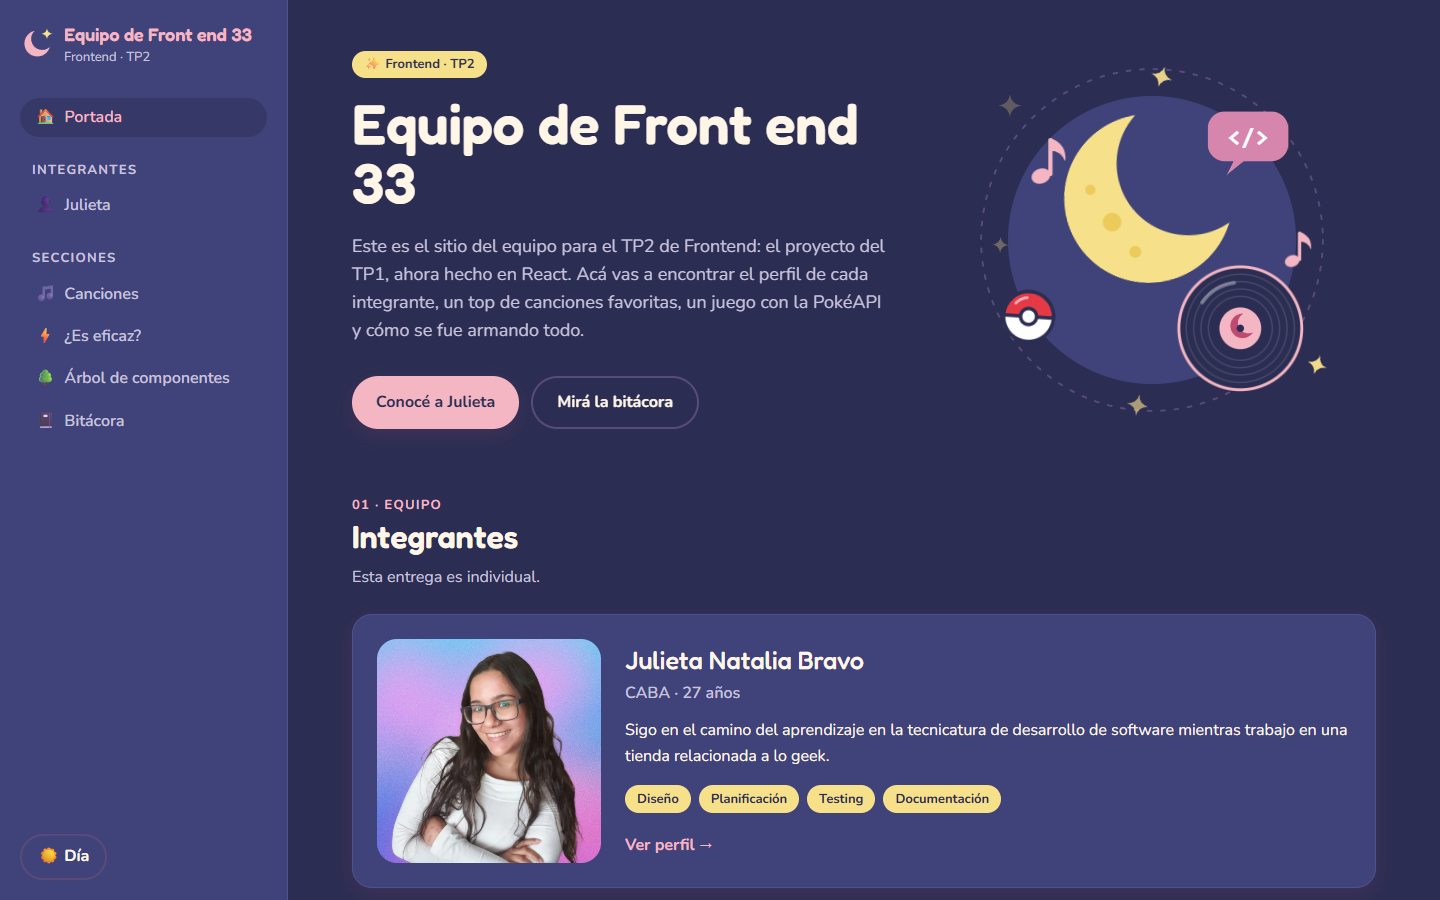
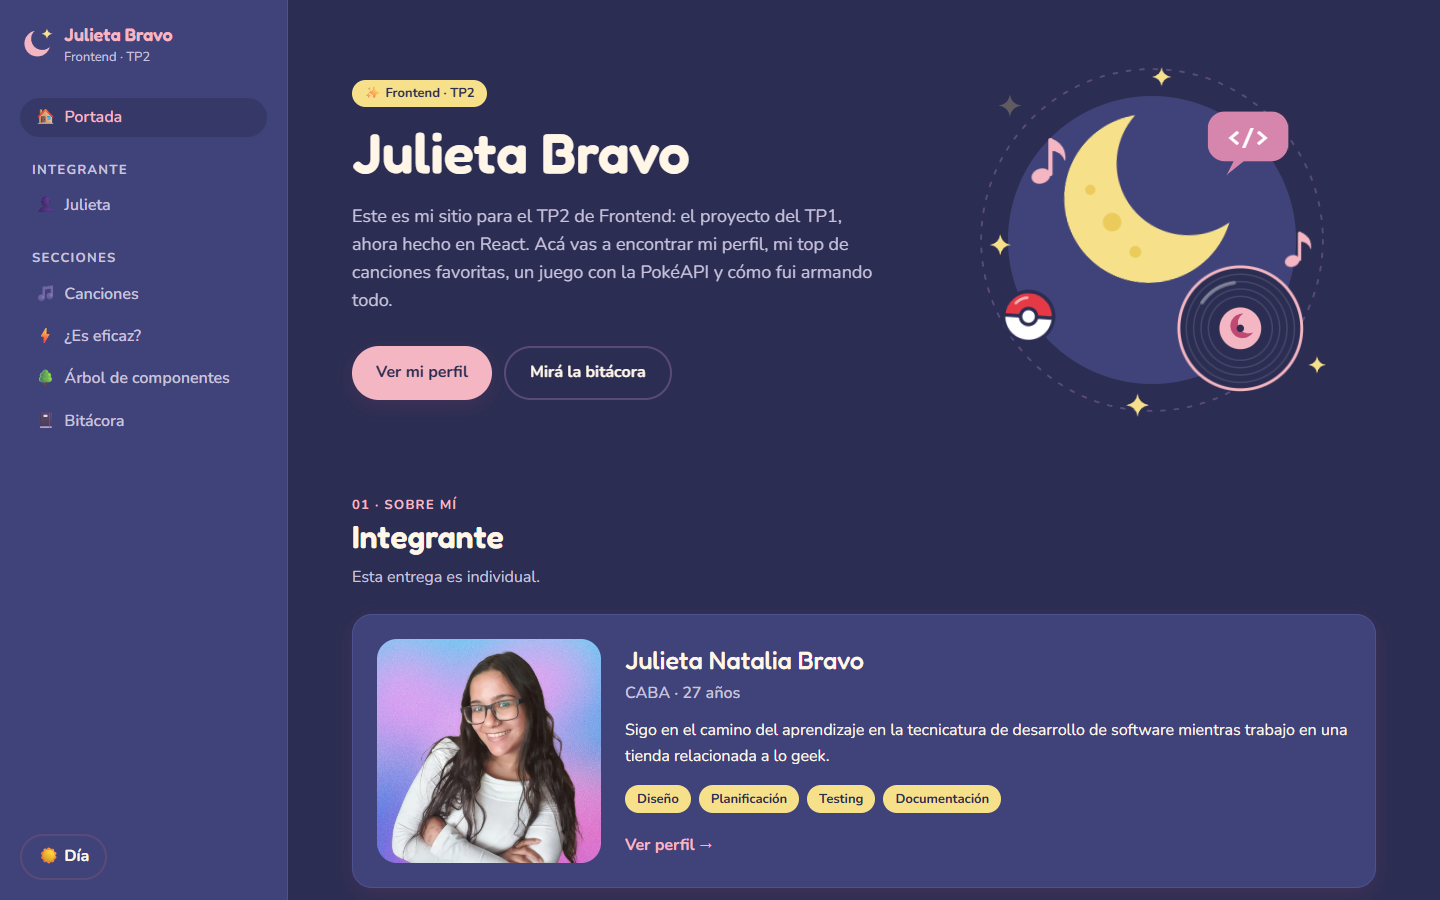
Adaptar textos del sitio, README y bitácora

diff --git a/src/pages/Home.jsx b/src/pages/Home.jsx
@@ -3,9 +3,9 @@ import MemberCard from '../components/home/MemberCard'
 import HeroIllustration from '../components/illustrations/HeroIllustration'
 import SectionCard from '../components/home/SectionCard'
 import Badge from '../components/ui/Badge'
-import equipo from '../data/equipo.json'
 import integrantes from '../data/integrantes.json'
 import secciones from '../data/secciones.json'
+import sitio from '../data/sitio.json'
 
 function SectionTitle({ eyebrow, title, children }) {
   return (
@@ -25,24 +25,24 @@ function Home() {
     <div className="grid gap-16">
       <section className="grid items-center gap-10 md:grid-cols-[1.2fr_1fr]">
         <div>
-          <Badge className="animate-fade-up">✨ {equipo.bajada}</Badge>
+          <Badge className="animate-fade-up">✨ {sitio.bajada}</Badge>
           <h1
             className="mt-4 animate-fade-up text-[clamp(2.4rem,5vw,3.5rem)] leading-[1.05]"
             style={{ animationDelay: '.1s' }}
           >
-            {equipo.nombre}
+            {sitio.nombre}
           </h1>
           <p className="mt-5 max-w-xl animate-fade-up text-lg text-fg-muted" style={{ animationDelay: '.2s' }}>
-            {equipo.descripcion}
+            {sitio.descripcion}
           </p>
           <div className="mt-8 flex animate-fade-up flex-wrap gap-3" style={{ animationDelay: '.3s' }}>
             {soloIntegrante ? (
               <Link to={`/integrantes/${soloIntegrante.id}`} className="btn btn-primary">
-                Conocé a {soloIntegrante.nombreCorto}
+                Ver mi perfil
               </Link>
             ) : (
               <a href="#integrantes" className="btn btn-primary">
-                Conocé al equipo
+                Conocé a los integrantes
               </a>
             )}
             <Link to="/bitacora" className="btn btn-secondary">
@@ -55,8 +55,8 @@ function Home() {
       </section>
 
       <section id="integrantes" className="scroll-mt-20">
-        <SectionTitle eyebrow="01 · Equipo" title="Integrantes">
-          {soloIntegrante ? equipo.nota : 'Tocá un nombre para ver su perfil.'}
+        <SectionTitle eyebrow="01 · Sobre mí" title={soloIntegrante ? 'Integrante' : 'Integrantes'}>
+          {soloIntegrante ? sitio.nota : 'Tocá un nombre para ver su perfil.'}
         </SectionTitle>
         <div className={soloIntegrante ? 'grid' : 'grid gap-6 sm:grid-cols-2 lg:grid-cols-3'}>
           {integrantes.map((integrante) => (

diff --git a/src/components/layout/Brand.jsx b/src/components/layout/Brand.jsx
@@ -1,5 +1,5 @@
 import { Link } from 'react-router'
-import equipo from '../../data/equipo.json'
+import sitio from '../../data/sitio.json'
 import Logo from '../illustrations/Logo'
 
 function Brand({ onClick }) {
@@ -7,8 +7,8 @@ function Brand({ onClick }) {
     <Link to="/" onClick={onClick} className="flex items-center gap-2 text-primary">
       <Logo className="size-9 shrink-0" />
       <span className="grid leading-tight">
-        <span className="font-display text-lg font-semibold">{equipo.nombre}</span>
-        <span className="text-small text-fg-muted">{equipo.bajada}</span>
+        <span className="font-display text-lg font-semibold">{sitio.nombre}</span>
+        <span className="text-small text-fg-muted">{sitio.bajada}</span>
       </span>
     </Link>
   )

diff --git a/src/components/illustrations/HeroIllustration.jsx b/src/components/illustrations/HeroIllustration.jsx
@@ -1,6 +1,6 @@
 import { Crescent, MusicNote, Pokeball, Sparkle, Vinyl } from './Shapes'
 
-// Ilustración de la portada: la luna del equipo rodeada de lo que hay en el sitio
+// Ilustración de la portada: la luna del sitio rodeada de lo que hay en el sitio
 // (canciones, Pokémon y código). Hecha en SVG con la paleta del tema.
 function HeroIllustration() {
   return (

diff --git a/src/components/layout/Sidebar.jsx b/src/components/layout/Sidebar.jsx
@@ -44,7 +44,7 @@ function Sidebar({ id, open, onClose }) {
 
         <div>
           <p className="mb-2 px-3 text-small font-bold uppercase tracking-widest text-fg-muted">
-            Integrantes
+            {integrantes.length === 1 ? 'Integrante' : 'Integrantes'}
           </p>
           <ul className="grid gap-1">
             {integrantes.map((integrante) => (

diff --git a/src/components/illustrations/Logo.jsx b/src/components/illustrations/Logo.jsx
@@ -1,4 +1,4 @@
-// Logo del equipo: luna creciente con un destello (el mismo dibujo que el favicon)
+// Logo del sitio: luna creciente con un destello (el mismo dibujo que el favicon)
 function Logo({ className = '' }) {
   return (
     <svg viewBox="0 0 32 32" className={className} aria-hidden="true">

diff --git a/README.md b/README.md
@@ -1,6 +1,6 @@
-# Equipo de Front end 33 · TP2
+# Julieta Bravo · TP2 de Frontend
 
-Sitio del equipo para el Trabajo Práctico N.º 2 de Frontend: el proyecto del TP1, ahora hecho en React. Reúne el perfil de cada integrante, un top de canciones favoritas con búsqueda y filtro, un juego con la PokéAPI, el árbol de componentes de la aplicación y la bitácora del proceso.
+Mi sitio para el Trabajo Práctico N.º 2 de Frontend: el proyecto del TP1, ahora hecho en React. Reúne mi perfil, un top de canciones favoritas con búsqueda y filtro, un juego con la PokéAPI, el árbol de componentes de la aplicación y la bitácora del proceso.
 
 🔗 **Sitio publicado:** [frontend-tp2.vercel.app](https://frontend-tp2.vercel.app/)
 📦 **Repositorio:** [github.com/julietanatbravo/frontend-tp2](https://github.com/julietanatbravo/frontend-tp2)
@@ -29,7 +29,7 @@ Todas se recorren desde la sidebar, que marca la sección activa y en celular se
 
 | Sección | Ruta | Qué tiene |
 | --- | --- | --- |
-| Portada | [`/`](https://frontend-tp2.vercel.app/) | Presentación del equipo, tarjeta de cada integrante y accesos a todas las secciones |
+| Portada | [`/`](https://frontend-tp2.vercel.app/) | Presentación, mi tarjeta de integrante y accesos a todas las secciones |
 | Perfil | [`/integrantes/julieta`](https://frontend-tp2.vercel.app/integrantes/julieta) | Datos, habilidades y favoritos, con una pokébola que muestra un Pokémon favorito al azar (PokéAPI) |
 | Canciones | [`/canciones`](https://frontend-tp2.vercel.app/canciones) | 20 canciones desde un JSON local, con búsqueda por texto, filtro por artista, vista detallada y fragmentos de 30 segundos |
 | ¿Es eficaz? | [`/pokemon`](https://frontend-tp2.vercel.app/pokemon) | Juego con la PokéAPI: dos Pokémon al azar y hay que adivinar el multiplicador de daño. Tiene niveles de dificultad, mensajes de carga y de error, y reintento |
@@ -90,7 +90,7 @@ frontend-tp2/
 │   ├── components/
 │   │   ├── home/          # Portada (MemberCard, SectionCard)
 │   │   ├── illustrations/ # Ilustraciones SVG propias: portada, logo y encabezados de sección
-│   │   ├── layout/        # Layout, Sidebar y Brand (identidad del equipo)
+│   │   ├── layout/        # Layout, Sidebar y Brand (identidad del sitio)
 │   │   ├── log/           # Bitácora (LogEntry)
 │   │   ├── pokemon/       # Juego "¿Es eficaz?" (PokéAPI)
 │   │   ├── profile/       # Perfil de integrante (FavoritePokemon, FavoriteList)
@@ -98,7 +98,7 @@ frontend-tp2/
 │   │   ├── tree/          # Árbol de componentes (TreeNode, TreeLegend)
 │   │   ├── ui/            # Componentes base: Button, Card, Input, Badge, Modal, ConfirmDialog, Disclosure, SegmentedControl
 │   │   └── ThemeToggle.jsx
-│   ├── data/              # Datos locales en JSON (equipo, integrantes, canciones, bitácora…)
+│   ├── data/              # Datos locales en JSON (sitio, integrantes, canciones, bitácora…)
 │   ├── hooks/             # useTheme, usePokemonRound, useAudioPreview
 │   ├── pages/             # Una página por ruta
 │   ├── services/          # Consultas a la PokéAPI
